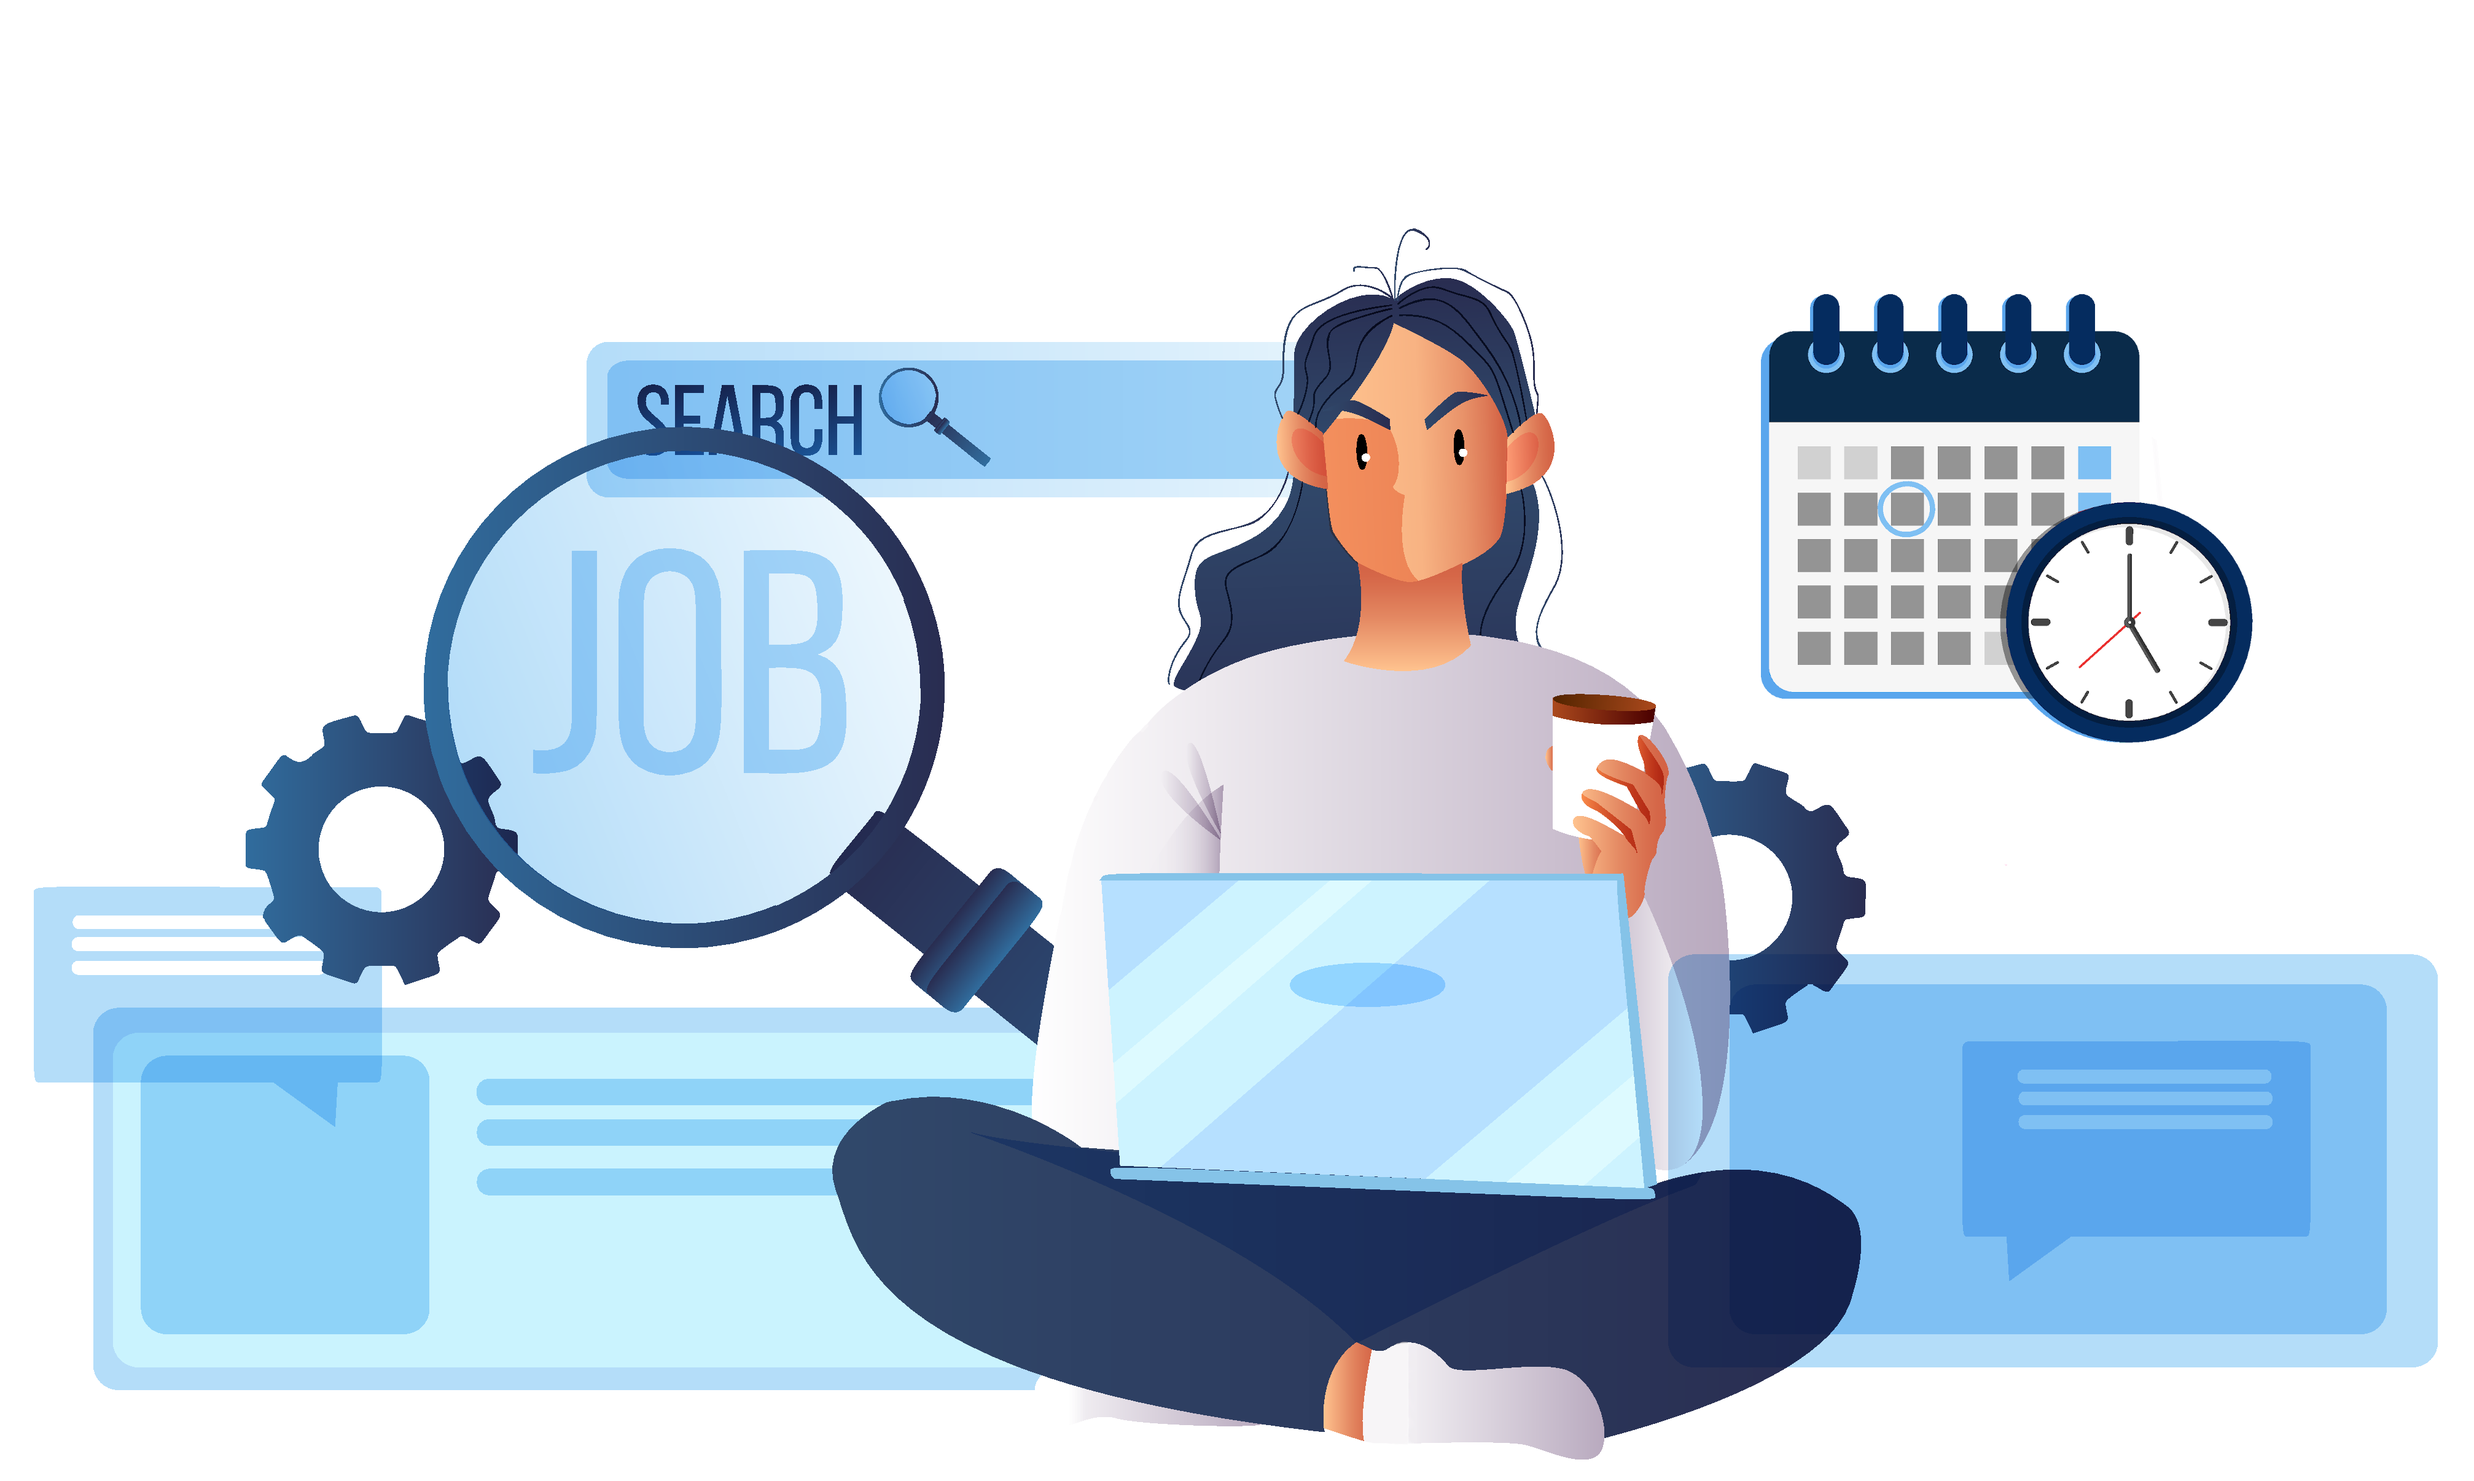
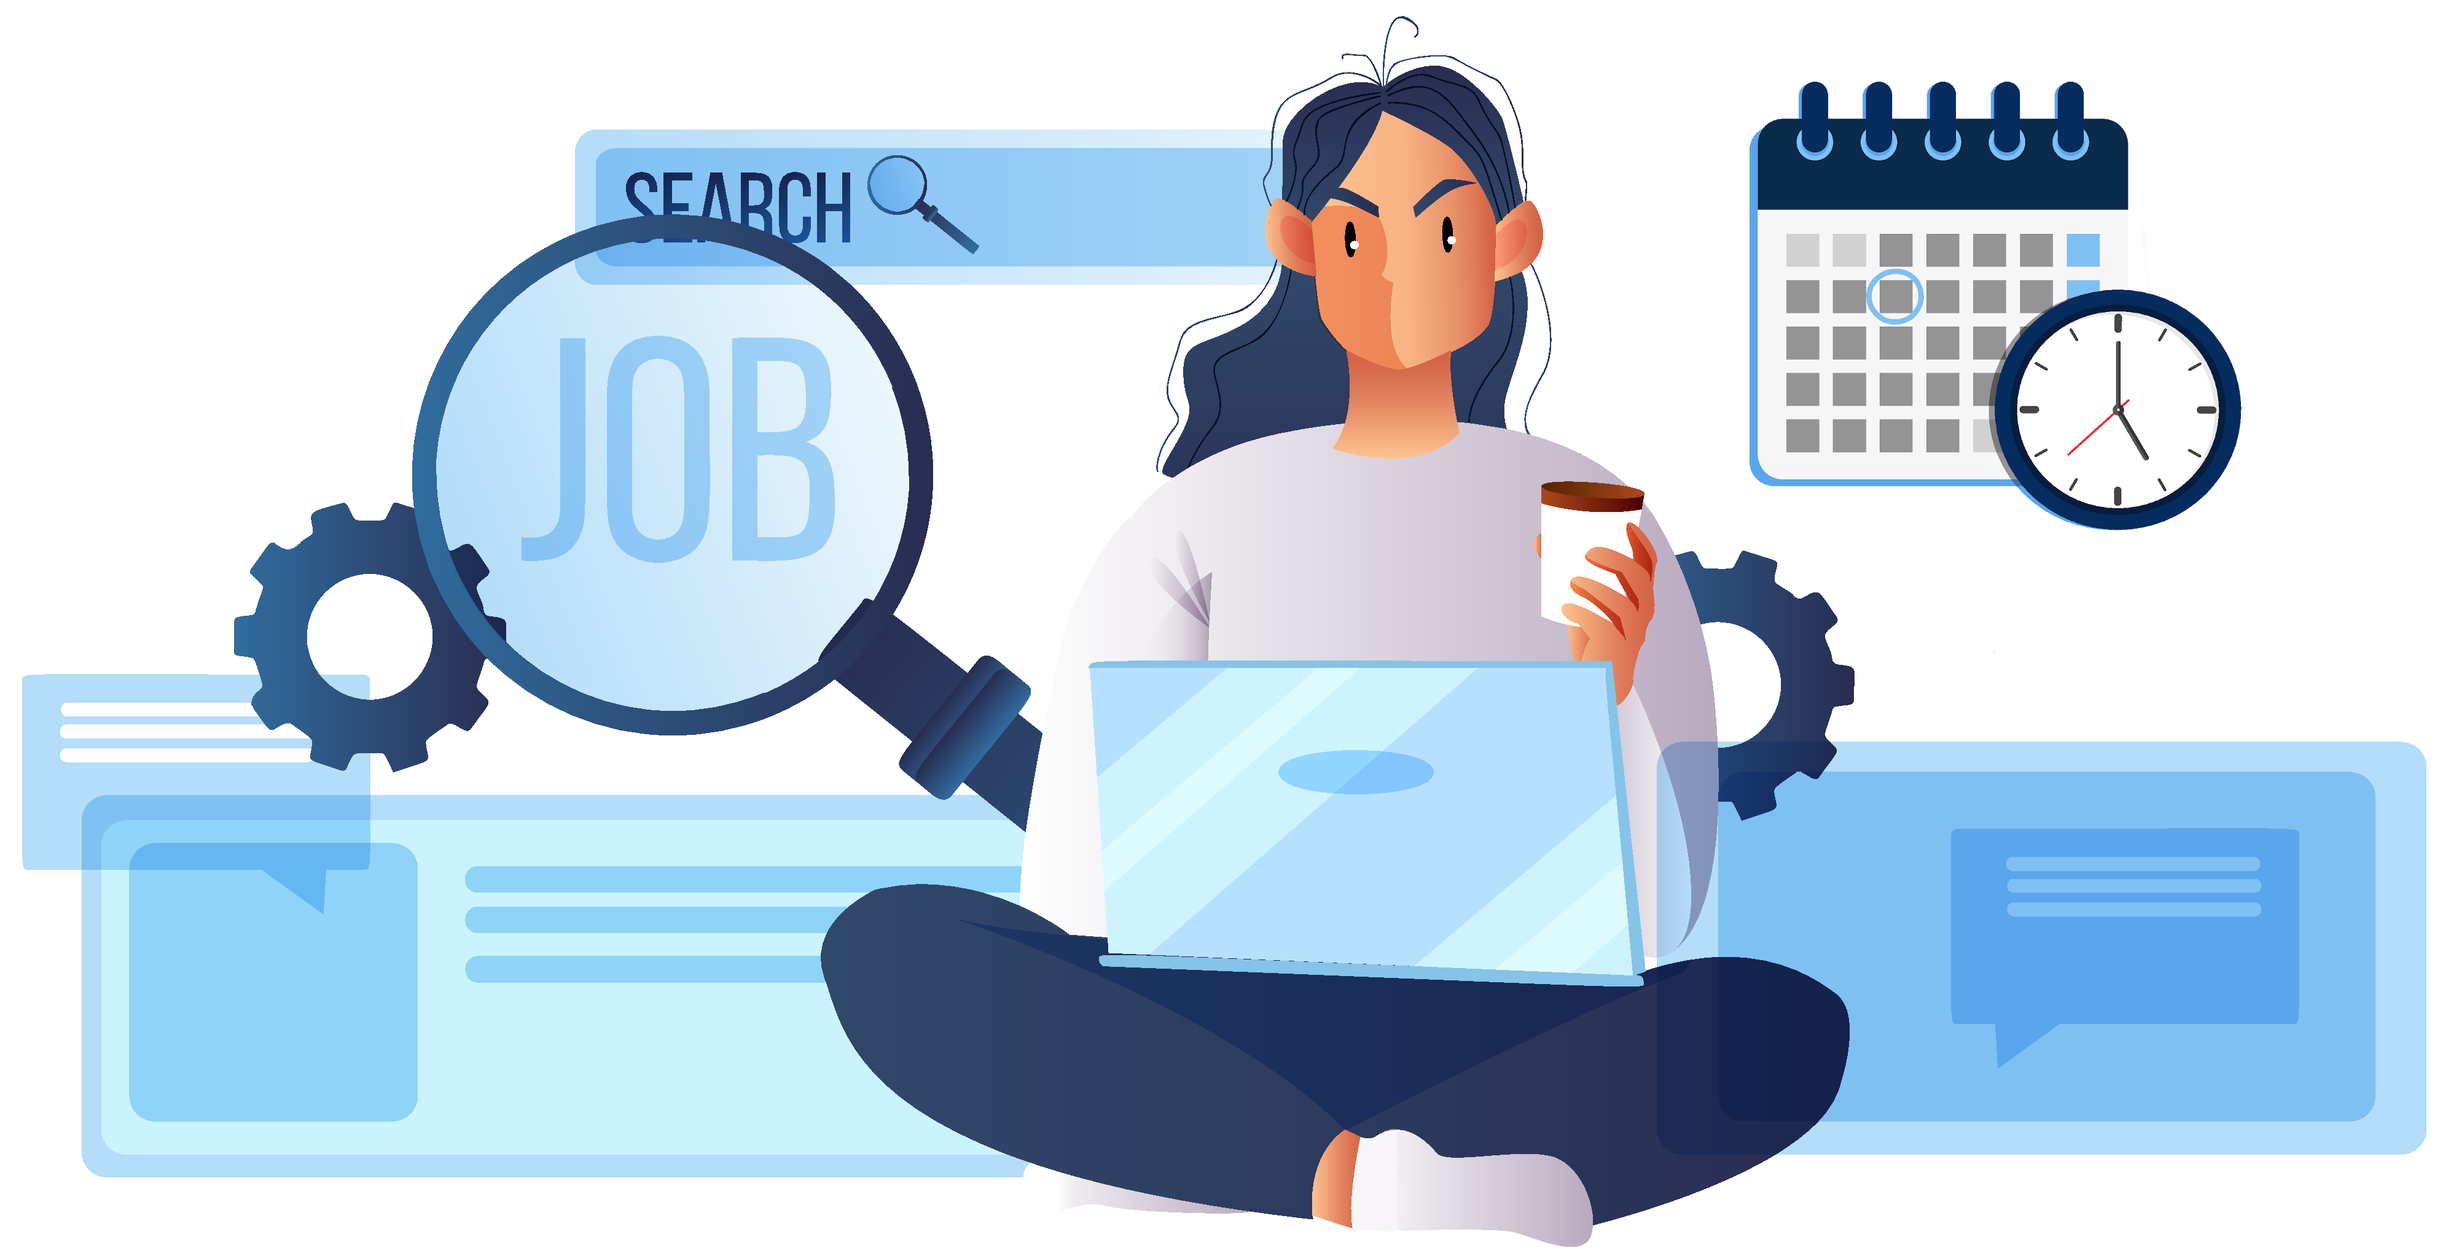
started styling project

diff --git a/src/pages/DashboardPage/JobSearch/SavedSearch/index.js b/src/pages/DashboardPage/JobSearch/SavedSearch/index.js
@@ -22,8 +22,6 @@ function SavedSearch(props) {
             .then(response => response.json())
             .then(data => setSearchListing(data.searchListing));
         
-        
-        
     }, []);
 
     let monKeyword = "q=";
@@ -31,28 +29,45 @@ function SavedSearch(props) {
 
     let inKeyword = "q=";
     let inCity = "&l="
+
+    let cBuildKeyword ="keywords=";
+    let cBuildCity = "&location=";
+
+    let museKeyword = "";
+    let museCity = "";
+
     if(searchListing.jobKeyword) {
-        monKeyword += searchListing.jobKeyword.replace(" ", "-");
         inKeyword += searchListing.jobKeyword.replace(" ", "+");
+        cBuildKeyword += searchListing.jobKeyword.replace(" ", "+");
+        museKeyword += "keyword=" + searchListing.jobKeyword.replace(" ", "%20");
+        monKeyword += searchListing.jobKeyword.replace(" ", "-");
      }
 
     if(searchListing.city) {
-        monCity += "&where=" + searchListing.city.replace(" ", "-");
         inCity += searchListing.city.replace(" ", "+");
+        cBuildCity += searchListing.city.replace(" ", "+");
+        museCity += "&job_location=" + searchListing.city.replace(" ", "%20");
+        monCity += "&where=" + searchListing.city.replace(" ", "-");
      }
 
     if(searchListing.state1) {
         if(monCity === "") {
-            monCity += "&where=" + searchListing.state1;
             inCity += searchListing.state1;
+            cBuildCity += searchListing.state1;
+            museCity += "&job_location=" + searchListing.state1;
+            monCity += "&where=" + searchListing.state1;
         } else {
+            inCity += "%2C+" + searchListing.state1;
+            cBuildCity += "%2C+" + searchListing.state1;
+            museCity += "%2C%20" + searchListing.state1;
             monCity += "__2C-" + searchListing.state1;
-            monCity += "%2C+" + searchListing.state1;
         }
      }
 
-     const monsterURL = "https://www.monster.com/jobs/search/?" + monKeyword + monCity;
      const indeedURL = "https://www.indeed.com/jobs?" + inKeyword + inCity;
+     const cBuilderURL = "https://www.careerbuilder.com/jobs?" + cBuildKeyword + cBuildCity;
+     const museURL = "https://www.themuse.com/search?" + museKeyword + museCity;
+     const monsterURL = "https://www.monster.com/jobs/search/?" + monKeyword + monCity;
      
     return(
         <>
@@ -71,6 +86,8 @@ function SavedSearch(props) {
         </table>
         <a href={monsterURL} target="_blank" rel="noreferrer"><button>Use this search on Monster.com</button></a>
         <a href={indeedURL} target="_blank" rel="noreferrer"><button>Use this search on Indeed.com</button></a>
+        <a href={cBuilderURL} target="_blank" rel="noreferrer"><button>Use this search on CareerBuiler.com</button></a>
+        <a href={museURL} target="_blank" rel="noreferrer"><button>Use this search on Muse.com</button></a>
         </>
     )
 }

diff --git a/src/pages/DashboardPage/Applications/index.js b/src/pages/DashboardPage/Applications/index.js
@@ -1,8 +1,10 @@
-import { Link } from 'react-router-dom'
-import { useState, useEffect } from 'react'
-import { getToken } from '../../../services/tokenService'
+import { Link } from 'react-router-dom';
+import { useState, useEffect } from 'react';
+import { DatePicker } from 'react-datepicker';
 
-import ApplicationRow from './ApplicationRow'
+import { getToken } from '../../../services/tokenService';
+
+import ApplicationRow from './ApplicationRow';
 
 const BASE_URL = 'http://localhost:3001/users';
 
@@ -17,8 +19,7 @@ function ApplicationsPage (props) {
         }
         fetch(BASE_URL + '/applications', requestOptions)
             .then(response => response.json())
-            .then(data => setApplicationsState(data.applicationArray))
-        
+            .then(data => setApplicationsState(data.applicationArray))        
     }, [])    
 
 
@@ -39,8 +40,10 @@ function ApplicationsPage (props) {
             <th>Notes</th>
             <th></th>
             <th></th>
+
             </tr>
         {applicationsState.map((listing, idx) => {
+            console.log(listing.dateApplied)
             return (<ApplicationRow 
                 {...props}
                 companyName={listing.companyName}

diff --git a/src/App.css b/src/App.css
@@ -1,9 +1,61 @@
-.App {
-  min-height: 100vh;
-  display: flex;
-  flex-direction: column;  
+header.dark-mode {
+    --primary-color: #C5C6C7;
+    --header-bg-color: #0B0C10;
+    --primary-bg-color: #1F2833;
+    --nav-color: #45A29E;
+    --border-color: #66FCF1;
 }
 
-.App main {
-  flex-grow: 1;
+header.light-mode {
+  --primary-color: #C5C6C7;
+  --header-bg-color: #659DBD;
+  --primary-bg-color: #FBEEC1;
+  --nav-color: #BC986A;
+  --border-color: #66FCF1;
 }
+
+main{
+  display: flex;
+  flex-direction: column;
+  justify-content: center;
+  align-items: center;
+  min-height: 100vh;
+}
+
+.App {
+  position: relative;
+  min-height: 100vh;
+  display: flex;
+  flex-direction: column;
+}
+
+.App > footer {
+  position: absolute;
+  left: 0;
+  right: 0;
+  bottom: 0;
+  margin: 0;
+}
+
+/*
+main {
+  min-height: 100vh;
+  padding: 15px;
+}
+display: grid;
+  grid-template-columns: repeat(2, 1fr);
+  grid-template-rows: 1fr 4fr;
+    grid-gap: 15px;
+
+.App {
+  min-height: 100vh;
+}
+
+
+.home {
+  display: flex;
+  justify-content: center;
+  align-items: center;
+  grid-column: 1/2;
+}
+*/

diff --git a/src/components/Header/index.js b/src/components/Header/index.js
@@ -4,25 +4,11 @@ import styles from './Header.module.css'
 function Header(props) {
     return (
     <header className={styles.Header}>
-        <Link to="/">
-        <h1>Application Tracker</h1>
-        </Link>
-        <nav>
-            <ul>
-                { //javascript expression
-                    props.user ?
-                    <>
-                    <li><Link to="" onClick={props.handleLogout}>Logout</Link></li>
-                    <li><Link to="/dashboard">Dashboard</Link></li>
-                    </>
-                    :
-                    <>
-                    <li><Link to="/login">Login</Link></li>
-                    <li><Link to="signup">Sign Up</Link></li>
-                    </>
-                }
-            </ul>
-        </nav>
+        { props.user?
+        <Link to="/dashboard"><h1>Application Tracker</h1></Link>
+        :
+        <Link to="/"><h1>Application Tracker</h1></Link>
+        }
     </header>
     );
 };

diff --git a/src/pages/LoginPage/index.js b/src/pages/LoginPage/index.js
@@ -35,24 +35,26 @@ function LoginPage (props) {
         //TODO: make ajax request to signup user
     }
     return(
-        <div className="Page">
+        <>
             <form onSubmit={handleSubmit}>
                 <div>
                     <input 
                     value={formState.email} 
-                    onChange={handleChange} 
+                    onChange={handleChange}
+                    placeholder="Email" 
                     name="email" 
                     type="email" />
                     <input 
                     value={formState.password} 
                     onChange={handleChange} 
+                    placeholder="Password"
                     name="password" 
                     type="password" />
                     <button>Login</button>
                 </div>
 
             </form>
-        </div>
+        </>
     );
 
 }

diff --git a/src/components/Navigation/index.js b/src/components/Navigation/index.js
@@ -1,0 +1,25 @@
+import { Link } from 'react-router-dom'
+import styles from './Navigation.module.css'
+
+function Navigation(props){
+    return (
+        <nav>
+        <ul>
+            { //javascript expression
+                props.user ?
+                <>
+                <li><Link to="" onClick={props.handleLogout}>Logout</Link></li>
+                <li><Link to="/dashboard">Dashboard</Link></li>
+                </>
+                :
+                <>
+                <li><Link to="/login">Login</Link></li>
+                <li><Link to="signup">Sign Up</Link></li>
+                </>
+            }
+        </ul>
+    </nav>
+    )
+}
+
+export default Navigation;

diff --git a/src/index.css b/src/index.css
@@ -1,3 +1,17 @@
+:root {
+  --primary-color: #C5C6C7;
+  --header-bg-color: #0B0C10;
+  --primary-bg-color: #FBEEC1;
+  --nav-color: #45A29E;
+  --border-color: #66FCF1;
+}
+
+body{
+  margin: 0;
+  background-color: var(--primary-bg-color);
+}
+
+/*
 body {
   margin: 0;
   font-family: -apple-system, BlinkMacSystemFont, 'Segoe UI', 'Roboto', 'Oxygen',
@@ -7,10 +21,13 @@ body {
   -moz-osx-font-smoothing: grayscale;
 }
 
+
+
 code {
   font-family: source-code-pro, Menlo, Monaco, Consolas, 'Courier New',
     monospace;
 }
+
 
 .Page {
   min-height: 100vh;
@@ -19,3 +36,4 @@ code {
   justify-content: center;
   align-items: center;
 }
+*/

diff --git a/src/App.js b/src/App.js
@@ -2,6 +2,7 @@ import { useState } from 'react';
 import { getUser, logout } from './services/userService';
 
 import Header from './components/Header';
+import Navigation from'./components/Navigation';
 import Footer from './components/Footer';
 
 import HomePage from './pages/HomePage';
@@ -46,6 +47,7 @@ function App(props) {
   return (
     <div className="App">
       <Header handleLogout={handleLogout} user={userState.user} />
+      <Navigation handleLogout={handleLogout} user={userState.user} />
       <main><Switch>
           <Route exact path="/" render={props =>
             <HomePage/>

diff --git a/src/pages/HomePage/index.js b/src/pages/HomePage/index.js
@@ -1,7 +1,11 @@
+import logo from '../../ApplicationTracker.png'
+import styles from './HomePage.module.css'
+
 function HomePage (props) {
     return(
-        <div>
-            Home Page
+        <div className={styles.div}>
+            <p>An online resource to help with your job search.</p>
+            <img src={logo} className={styles.img} alt="Use this application to search for jobs on multiple sites and track all the applications you've submitted"/>
         </div>
     )
 

diff --git a/src/components/Header/Header.module.css b/src/components/Header/Header.module.css
@@ -1,21 +1,11 @@
 .Header {
     padding: 0 15px;
     display: flex;
-    justify-content: space-between;
+    justify-content: space-around;
     align-items: center;
-    background-color: black;
+    background-color: #659DBD;
+    color: white;
     box-shadow: 3px 3px 5px lightgray;
-}
-
-.Header > nav > ul {
-    display: flex;
-    list-style: none;
-
-}
-
-.Header > nav > ul li {
-    font-size: 25px;
-    margin-right: 20px;
 }
 
 .Header a {

diff --git a/src/pages/DashboardPage/JobSearch/index.js b/src/pages/DashboardPage/JobSearch/index.js
@@ -66,7 +66,7 @@ function JobSearchPage(props){
 
     return(
         <>
-        <div>{props.user.firstName}'s Job Applications Page</div>
+        <div>{props.user.firstName}'s Job Search Page</div>
         <div className="Page">
             <form onSubmit={handleSubmit}>
                 <div>

diff --git a/src/components/Navigation/Navigation.module.css b/src/components/Navigation/Navigation.module.css
@@ -1,0 +1,19 @@
+nav > ul {
+    display: flex;
+    justify-content: flex-end;
+    list-style: none;
+    margin: 0;
+    padding: .5%;
+    background-color: #BC986A;
+
+}
+
+nav > ul li {
+    font-size: 25px;
+    margin-right: 20px;
+}
+
+a {
+    text-decoration: none;
+    color: white;
+}
